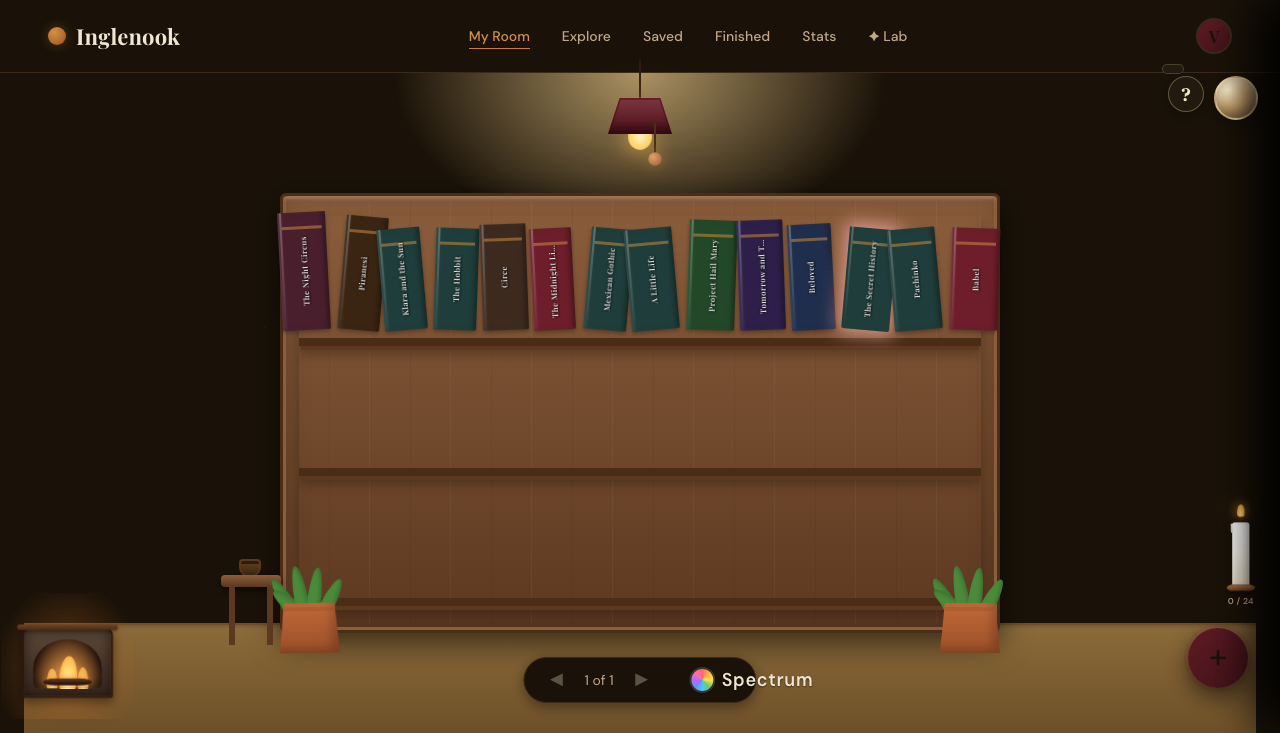
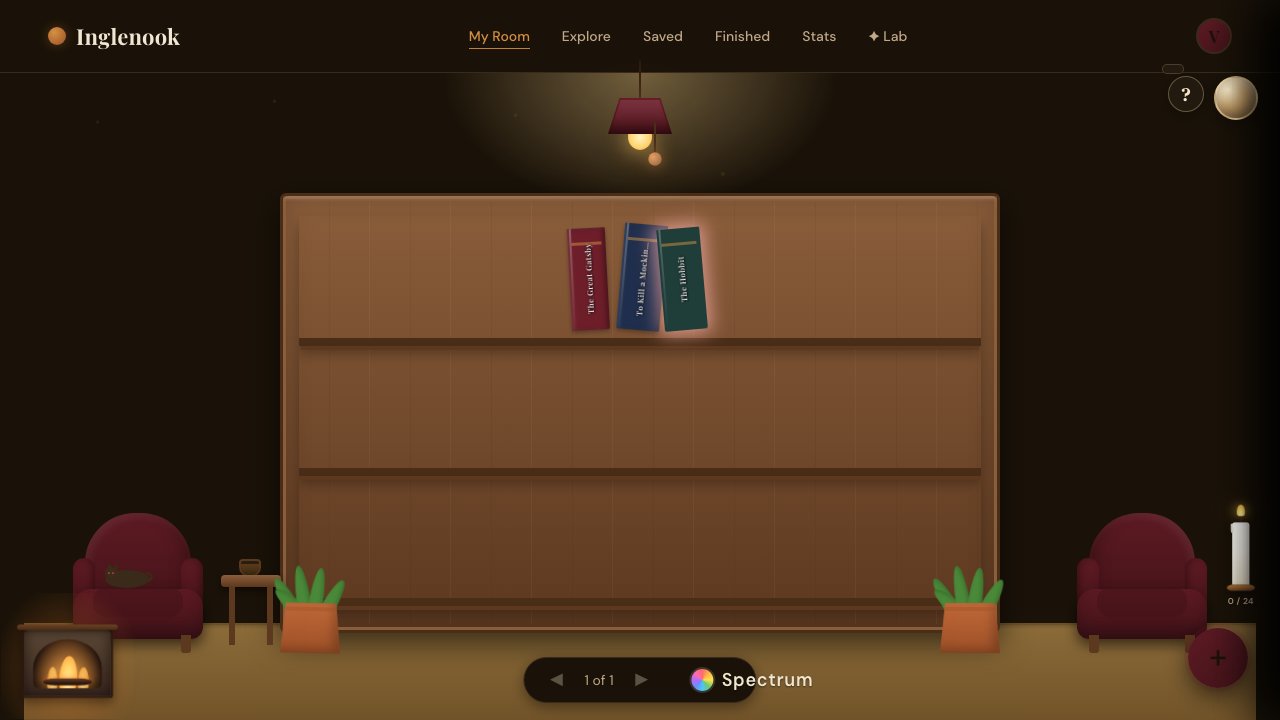
Refocus README on Inglenook cozy reading room & include interactive features + cat adventure screenshots

diff --git a/tests/cat_adventure.spec.js b/tests/cat_adventure.spec.js
@@ -1,0 +1,65 @@
+const { test, expect } = require('@playwright/test');
+
+const BASE = 'http://localhost:9000';
+
+async function setupInglenook(page) {
+    await page.goto(`${BASE}/inglenook.html`);
+    await page.evaluate(() => {
+      const books = [
+        { id: 'b1', title: 'The Great Gatsby', author: 'F. Scott Fitzgerald', status: 'in_progress', genres: ['Fiction'], moods: ['Reflective'], rating: 5, pages: 180 },
+        { id: 'b2', title: 'To Kill a Mockingbird', author: 'Harper Lee', status: 'tbr', genres: ['Classics'], moods: ['Thoughtful'], rating: 4, pages: 320 },
+        { id: 'b3', title: 'The Hobbit', author: 'J.R.R. Tolkien', status: 'finished', genres: ['Fantasy'], moods: ['Adventurous'], rating: 5, pages: 310 }
+      ];
+      localStorage.setItem('inglenook_books', JSON.stringify(books));
+    });
+    await page.reload();
+    await page.waitForLoadState('networkidle');
+    await page.waitForTimeout(800);
+}
+
+test('Capture Inglenook features', async ({ page }) => {
+  // 1. Load room
+  await setupInglenook(page);
+  await page.screenshot({ path: 'assets/inglenook_room.png' });
+
+  // 2. Click the cat and capture it mid-adventure
+  const cat = page.locator('#cozyCat');
+  await cat.click();
+  
+  // Wait 1.3 seconds - the cat should be jumping or walking on the shelf
+  await page.waitForTimeout(1300);
+  await page.screenshot({ path: 'assets/cat_walking_on_shelf.png' });
+
+  // Wait another 1.2 seconds - the cat should be swiping or the book should be falling
+  await page.waitForTimeout(1200);
+  await page.screenshot({ path: 'assets/cat_knocking_book.png' });
+
+  // Wait 4 seconds for the adventure to finish
+  await page.waitForTimeout(4000);
+
+  // 3. Toggle Dark Mode (Pull String)
+  const pullString = page.locator('.cozy-pull-string').first();
+  await pullString.click();
+  await page.waitForTimeout(800);
+  await page.screenshot({ path: 'assets/inglenook_dark.png' });
+
+  // Switch back to light mode for other screenshots
+  await pullString.click();
+  await page.waitForTimeout(800);
+
+  // 4. Navigation views
+  // Explore view
+  await page.locator('a[data-view="explore"]').click();
+  await page.waitForTimeout(500);
+  await page.screenshot({ path: 'assets/inglenook_explore.png' });
+
+  // TBR view
+  await page.locator('a[data-view="tbr"]').click();
+  await page.waitForTimeout(500);
+  await page.screenshot({ path: 'assets/inglenook_tbr.png' });
+
+  // Stats view
+  await page.locator('a[data-view="stats"]').click();
+  await page.waitForTimeout(500);
+  await page.screenshot({ path: 'assets/inglenook_stats.png' });
+});

diff --git a/README.md b/README.md
@@ -1,117 +1,94 @@
-# 📚 Inglenook & Marginalia: The Cozy AI Reading Suite
+# 🏡 Inglenook: Your Cozy Illustrated Reading Room & Tracker
 
-Welcome to **Inglenook**, a beautiful, local-first reading suite for book lovers. It combines a cozy, interactive illustrated reading room with **Marginalia**—an AI-powered margin notes annotator—and a unified **Reading Vault** dashboard to capture, catalog, and enrich your reading life.
+Welcome to **Inglenook**, a beautiful, local-first interactive reading room and book tracking application designed to make cataloging your library a cozy, tactile experience. 
 
-Everything runs entirely in your browser. With **local-first privacy**, your books, favorite quotes, reading statistics, and API keys are stored securely in your browser's local storage—no tracking, no cloud databases, no logins required.
+Instead of dealing with boring tables and grids, Inglenook welcomes you into a virtual reading room. Everything is fully client-side and **local-first**—your books, reading goals, quotes, and history are saved directly in your browser's LocalStorage.
 
 ---
 
-## 🎨 Inside the Suite
+## 📸 Room & Feature Highlights
 
-### 1. Inglenook — Your Cozy Illustrated Reading Room (`inglenook.html`)
-*Escape into a quiet library. Catalog your books and watch your library grow.*
-* **Cozy Interactive Library UI:** Displays an illustrated reading room with bookshelf styling, a book detail drawer, and animated transitions.
-* **Pull-String Lamp Theme Toggle:** Click the hanging lamp pull-string to dim the lights and transition between a warm parchment-light mode and a rich espresso-dark mode.
-* **Open Library Lookup:** Search millions of books by title, author, or ISBN to instantly fetch covers, pages, and metadata.
-* **Smart Recommendations:** Explore curated bookshelves and dynamic search categories.
-* **Reading Stats & Charts:** Beautifully rendered local charts tracking your finished books, total pages read, genre breakdown, and daily progress.
+### 🌅 The Cozy Reading Room
+An illustrated, interactive room that reflects your real-world library. Click the hanging lamp pull-string to transition from warm daylight into dark mode.
 
-#### 📸 Room Visuals
-| 🌅 The Reading Room (Light Mode) | 🌌 The Reading Room (Dark Mode) |
+| ☀ Daylight Room (Light Mode) | 🌙 Midnight Room (Dark Mode) |
 | :---: | :---: |
 | ![Inglenook Room](assets/inglenook_room.png) | ![Inglenook Room Dark](assets/inglenook_dark.png) |
 
-| 📊 Library Analytics & Charts |
-| :---: |
-| ![Inglenook Stats](assets/inglenook_stats.png) |
+---
+
+### 🐈 Mr. Whiskers: The Interactive Cat Companion (Hidden Feature!)
+Click the sleeping cat on the armchair to watch Mr. Whiskers wake up, crouch, leap onto the bookshelf, strut across it, swipe a book off, and jump back down to resume his nap.
+
+| 🐈 Strutting on the Shelf | 💥 Swiping a Book Off |
+| :---: | :---: |
+| ![Cat Struts](assets/cat_walking_on_shelf.png) | ![Cat Swipes](assets/cat_knocking_book.png) |
 
 ---
 
-### 2. Marginalia — AI Book Annotator (`index.html`)
-*Annotate your books with a personal AI scholar that writes directly in the margins.*
-* **PDF & Text Uploads:** Drag-and-drop PDF books or paste chapters directly into the reader.
-* **AI Margin Scribbles:** Send text sections to Gemini, OpenRouter, or OpenAI to generate contextual annotations, character analysis, historical context, or vocabulary definitions directly in the margins.
-* **Tactile Highlight Tools:** Highlight text passages with multiple ink-like highlighter colors (burgundy, gold, sage, blue).
-* **Export Options:** Instantly export your annotated text and margin notes as standard Markdown (`.md`) files.
+### 📊 Library Analytics & Discovery
+Explore curated lists, search for millions of books using the Open Library API, or check your reading statistics (genre donut charts, reading pace, page-count limits).
 
-#### 📸 Marginalia Workspace
-| ✍ AI Annotation Layout |
-| :---: |
-| ![Marginalia Results](assets/marginalia_results.png) |
+| 🔍 Explore & Add | 📈 Library Statistics |
+| :---: | :---: |
+| ![Explore View](assets/inglenook_explore.png) | ![Stats View](assets/inglenook_stats.png) |
 
 ---
 
-### 3. The Reading Vault — Unified Dashboard (`reading-vault.html`)
-*The central dashboard combining tracking, quotes, goals, and annotations.*
-* **Comprehensive Bookshelf:** Track books across "Currently Reading", "TBR" (To Be Read), and "Finished" categories.
-* **Interactive Quotes Wall:** Pin your favorite quotes from books with page numbers, tags, and authors.
-* **Daily & Yearly Reading Goals:** Dynamic progress meters tracking your reading habits against customizable goals.
-* **Backup & Portability:** Import and export your entire vault as a single `.json` file to migrate between devices.
+## ✨ Cozy Interactive Mechanics & Easter Eggs
 
-#### 📸 Vault Visuals
-| 🏠 Home Dashboard | 💬 Interactive Quotes Wall |
-| :---: | :---: |
-| ![Reading Vault Home](assets/reading_vault_home.png) | ![Reading Vault Quotes](assets/reading_vault_quotes.png) |
+Inglenook is packed with hidden, interactive details:
 
-| 🧠 AI Annotation Center | 📊 Vault Stats Dashboard |
-| :---: | :---: |
-| ![Reading Vault Annotator](assets/reading_vault_annotator.png) | ![Reading Vault Stats](assets/reading_vault_stats.png) |
+* **🐈 Mr. Whiskers' Shelf Adventure:** Click the sleeping cat on the left armchair to trigger his shelf-climbing adventure. The book he knocks off falls to the floor with custom physics and bounces!
+* **💡 Pull-String Lamp:** A fully interactive pull-string hanging brass lamp that dims the room and toggles light/dark themes.
+* **☕ Tea Cup Pomodoro:** Click the steaming tea cup sitting next to your reading chair to start a 25-minute reading timer.
+* **🌦 Geolocation Weather Sync:** Connects to the [Open-Meteo API](https://open-meteo.com/) (privacy-friendly, no keys required) to match the view outside your window with your actual local weather (rain, snow, clouds, or sun).
+* **🌿 Seasonal Plant:** The potted plant near the fireplace adjusts its appearance dynamically based on the current season of the year in your region.
+* **👣 Footsteps Heatmap:** The more books you read and update, the more footstep patterns begin to lightly burn into the wooden floorboards, indicating your path through the room.
+* **📚 Book Spine Physics:** Book spines on the shelf scale dynamically based on the page counts of the books. Heavier volumes look thicker and taller!
+* **🕸 Forgotten Cobwebs:** If you go a long time without reading or cataloging books, spiderwebs will slowly begin to spin in the upper corners of your bookshelves.
+* **🏆 Book Tournament:** Pit your favorite books against one another in a head-to-head bracket tournament to crown your ultimate read of the year.
+* **🪦 The Book Graveyard:** Deleted books are sent to the "Graveyard of the Unfinished" with custom epitaphs.
+* **🌌 Constellation Map:** Maps your favorite genres to stars and constellations in the night sky.
+* **🧬 Reading DNA Helix:** Visualizes your reading logs as a custom double-helix gene map.
+* **🌕 Haunted Moon Mode:** During a real-world full moon, the window turns spooky and the cat's eyes glow crimson.
+* **⌨ Keyboard Mode:** Support for keyboard shortcuts (including Vim bindings) for mouse-free navigation.
 
 ---
 
 ## 🛠 Architecture & Tech Stack
 
-* **Frontend Layout:** Responsive Semantic HTML5, CSS Grid, and custom CSS Flexbox layouts.
-* **Visual Styling:** 
-  * Custom CSS variables for quick styling and full support for `prefers-color-scheme`.
-  * Tactile SVG noise-filter paper overlay to simulate authentic paper grains.
-  * Custom bezier transitions for drawers, modals, and panel slides.
-* **State & Storage:** Vanilla ES6+ JavaScript. State management is bound directly to `localStorage`.
-* **Libraries & APIs:**
-  * **[PDF.js](https://mozilla.github.io/pdf.js/)** (Mozilla) for client-side PDF document parsing and text extracting.
-  * **[Open Library API](https://openlibrary.org/developers/api)** for live metadata searches.
-  * **LLM API Integrations** for local AI-based annotations (Gemini, OpenRouter, OpenAI).
-* **Testing Suite:** Playwright E2E testing framework for multi-browser validation.
+* **Structure:** Semantic HTML5 layout.
+* **Design & Styling:** Custom CSS3 with custom variables, smooth transitions, custom scrollbars, and a warm, bookish design system. An SVG noise-filter paper overlay is applied across the room to give the graphics a rich, tactile texture.
+* **Logic & State:** Pure ES6+ JavaScript. The entire application runs client-side with states stored in browser `localStorage`.
+* **APIs & Libraries:**
+  * **[Open Library API](https://openlibrary.org/developers/api)** for rich book searches and cover metadata.
+  * **[Open-Meteo API](https://open-meteo.com/)** for live weather conditions.
+* **E2E Testing:** Playwright test suite for multi-browser and UI automation tests.
 
 ---
 
-## 🚀 Run Locally
+## 🚀 Quick Start
 
-Since this is a client-side application, you can run it directly:
+Since Inglenook has no backend server dependencies, you can open and run it directly in your browser:
 
-### 1. Direct Browser Open
-Just open any of the HTML pages in your browser:
-* `inglenook.html` (Reading Room & Tracker)
-* `reading-vault.html` (Vault & Stats)
-* `index.html` (Marginalia Reader)
-
-### 2. Local HTTP Server (Recommended)
-Starting a local server prevents CORS/security blocks when handling uploaded PDFs.
-```bash
-# Clone the repository
-git clone https://github.com/Vaishnavi-Dubey/inglenook.git
-cd inglenook
-
-# Install dev dependencies
-npm install
-
-# Start a simple HTTP server
-npx serve .
-```
+1. Double-click `inglenook.html` in your file explorer.
+2. (Optional but recommended) Run a local server to avoid CORS limitations with external cover assets:
+   ```bash
+   npm install
+   npx serve .
+   ```
 
 ---
 
-## 🧪 Running E2E & Visual Tests
+## 🧪 Tests
 
-We maintain a rigorous suite of **60 E2E and visual validation tests** using Playwright.
+To run the automated E2E test suite (which includes tests for the room rendering, panel animations, navigation views, and stats):
 
 ```bash
 # Install browsers
 npx playwright install
 
-# Run the test suite
-npx playwright test
-
-# View test report
-npx playwright show-report
+# Run all tests
+npx playwright test tests/full_test.spec.js --reporter=list
 ```
